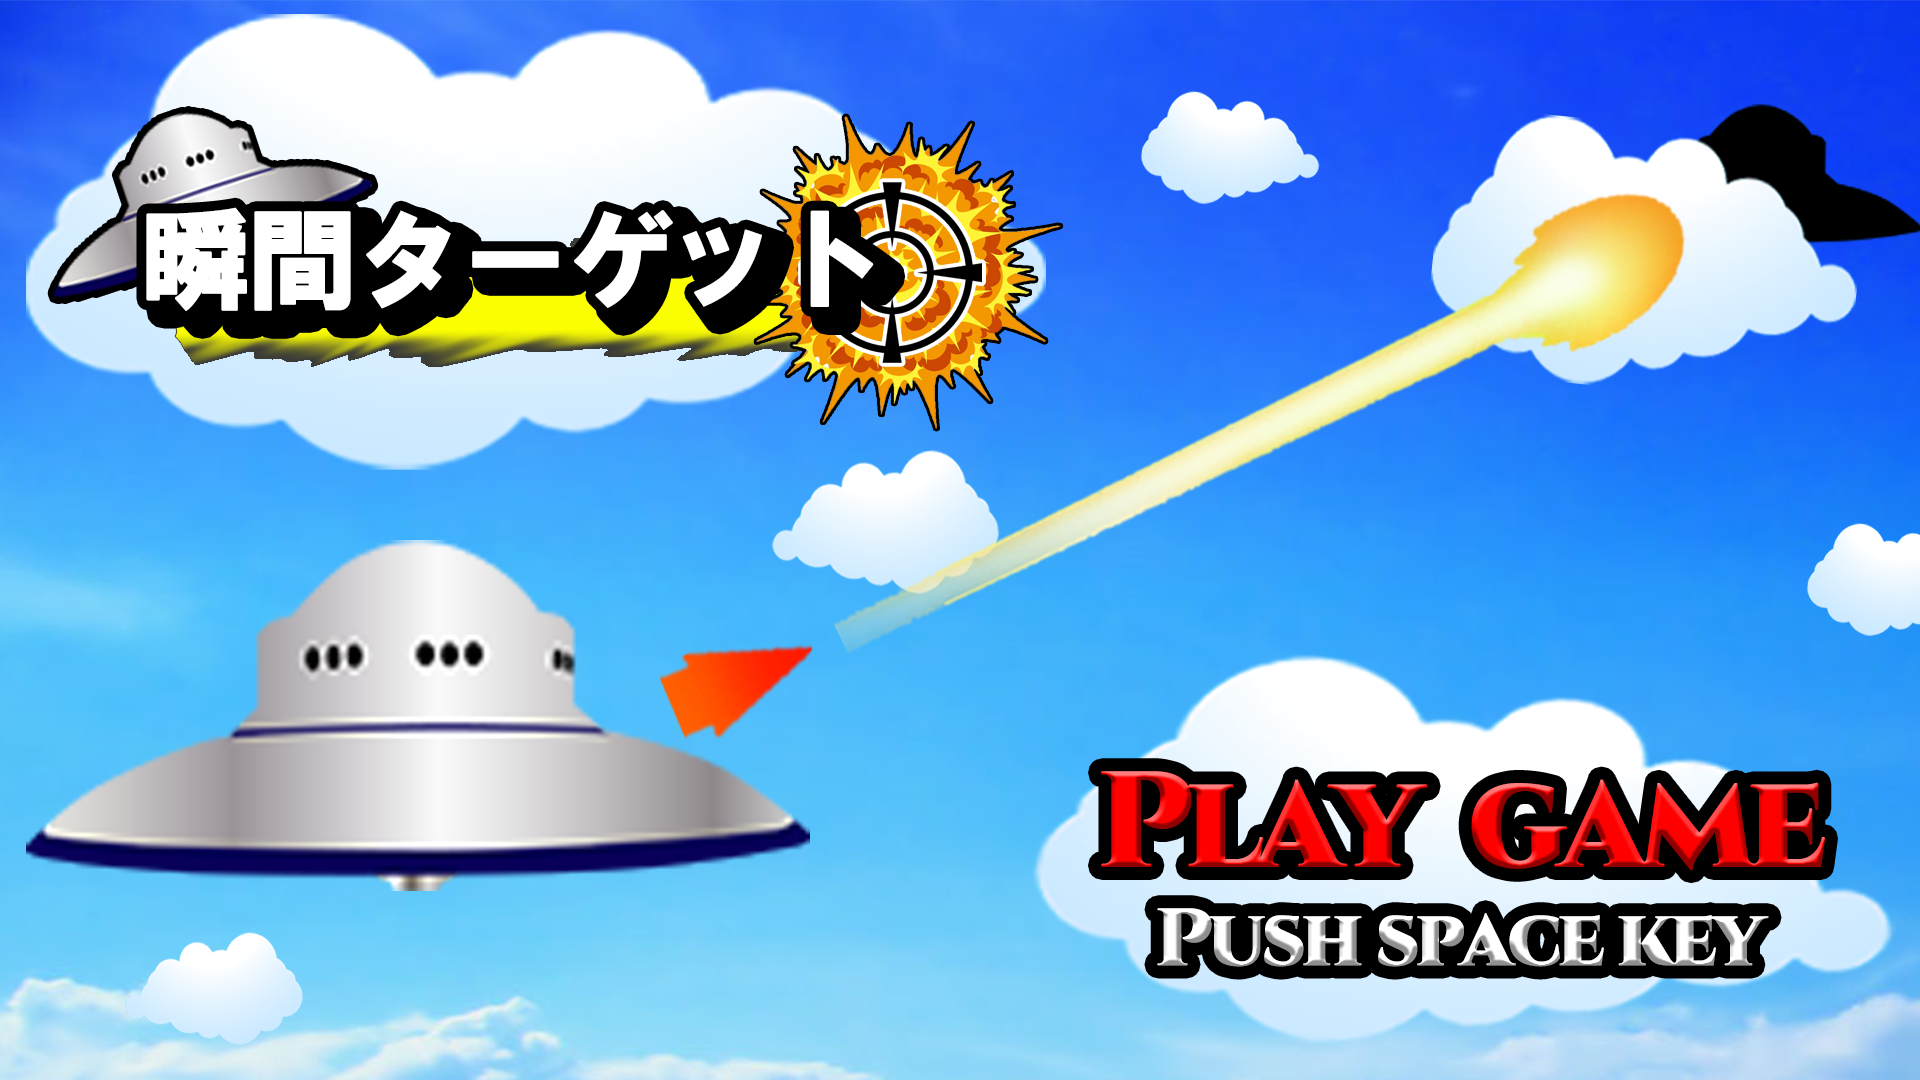
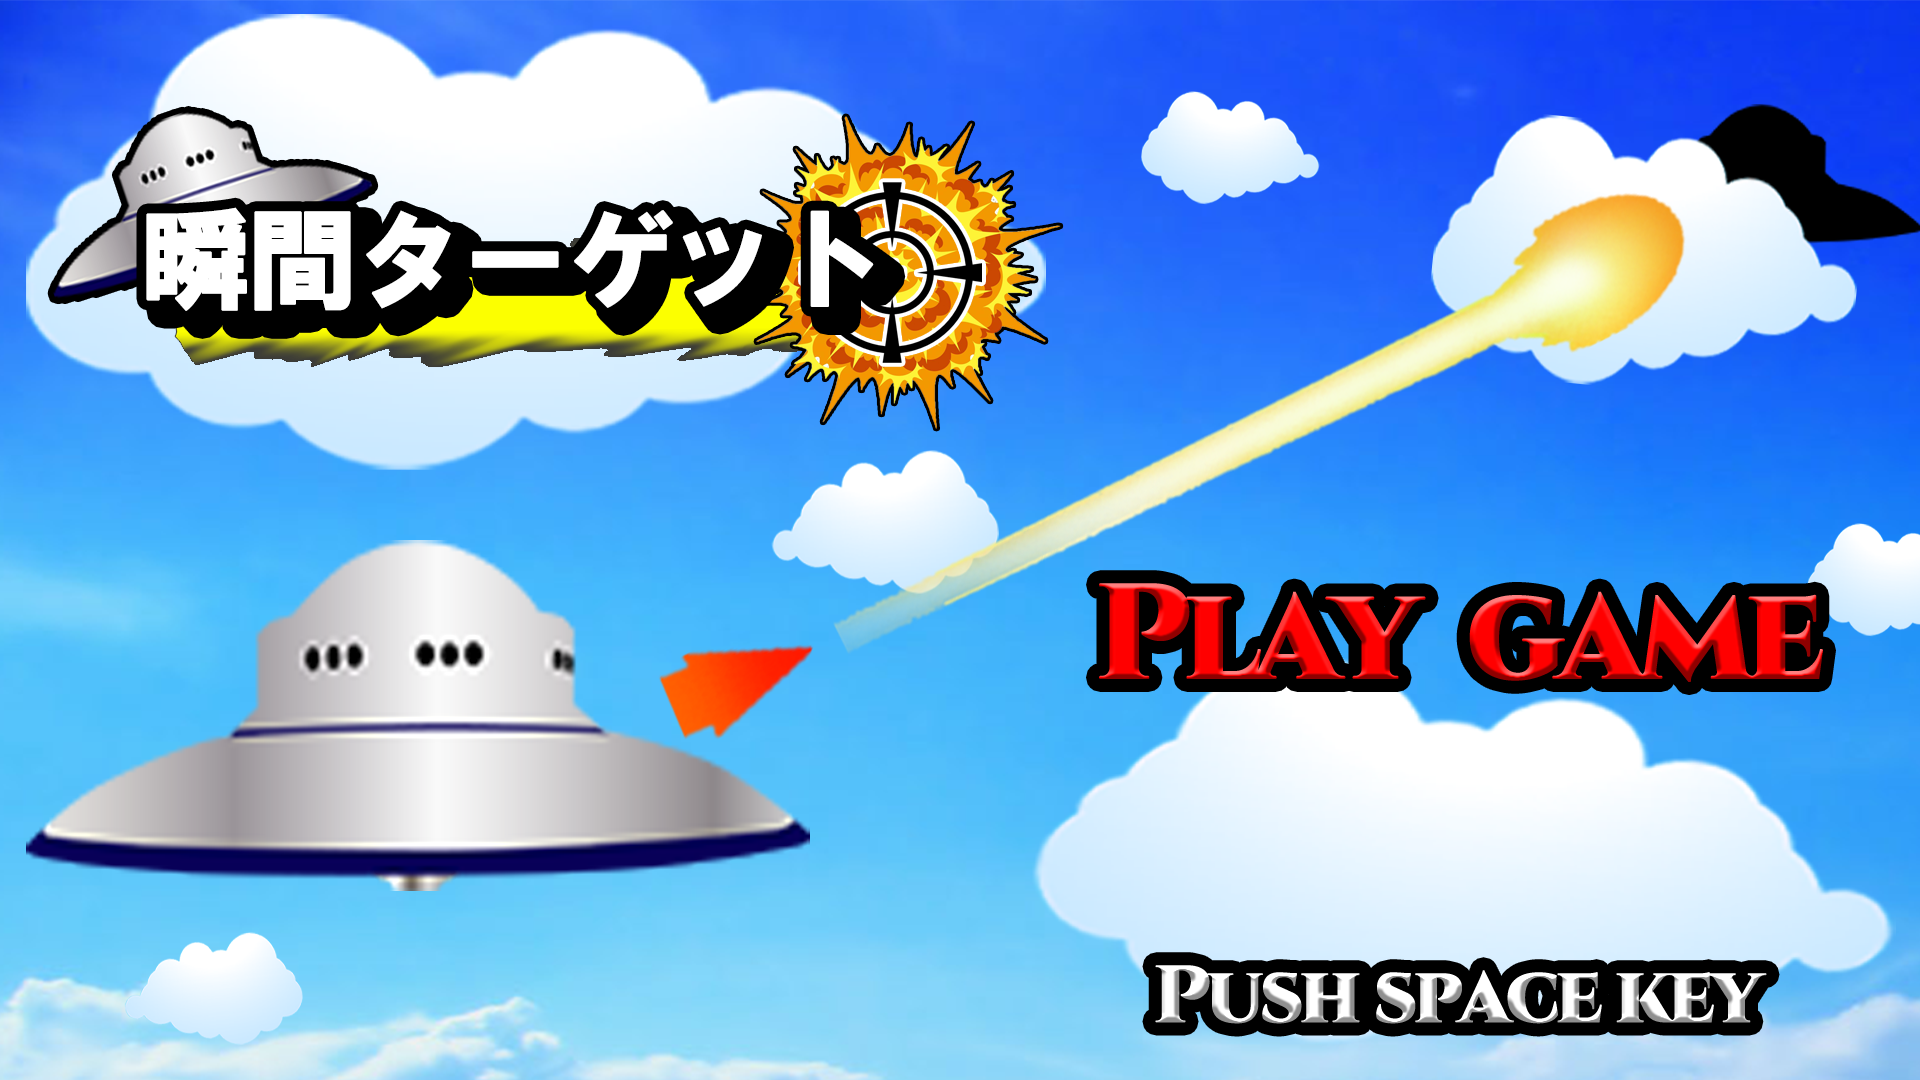
最後の作業

Changed region(s): [[0.5625, 0.7028, 0.9688, 0.9778], [0.5625, 0.5194, 0.9688, 0.6417]]

diff --git a/Team03/GameProject/Project/SceneTitle.cpp b/Team03/GameProject/Project/SceneTitle.cpp
@@ -6,6 +6,9 @@ void CSceneTitle::Initialize()
 {
 	CSceneBase::Initialize();
 	m_pTexture = &CResourceManager::Singleton().GetTextureList()->at("Title");
+	m_pTextureLevel1 = &CResourceManager::Singleton().GetTextureList()->at("Level1");
+	m_pTextureLevel2 = &CResourceManager::Singleton().GetTextureList()->at("Level2");
+	m_pTextureLevel3 = &CResourceManager::Singleton().GetTextureList()->at("Level3");
 	m_pBGM = &CResourceManager::Singleton().GetSoundList()->at("bgm_title");
 	m_pBGM->SetLoop(true);
 	m_pBGM->SetVolume(0.1f);
@@ -17,18 +20,46 @@ void CSceneTitle::Initialize()
 void CSceneTitle::Update()
 {
 	CSceneBase::Update();
-	if (g_pInput->IsKeyPush(MOFKEY_F1)) {
-		m_pBGM->Stop();
 
-		this->SetNextScene(NextScene::Game);
-		this->SceneEnd();
+	if (g_pInput->IsKeyPush(MOFKEY_S))
+	{
+		titleMenuIndex++;
+		if (titleMenuIndex >= 3) {
+			titleMenuIndex = 0;
+		}
 	}
+	else if (g_pInput->IsKeyPush(MOFKEY_W))
+	{
+		titleMenuIndex--;
+		if (titleMenuIndex < 0) {
+			titleMenuIndex += 3;
+		}
+	}
+
+	//if (g_pInput->IsKeyPush(MOFKEY_F1)) {
+	//	m_pBGM->Stop();
+
+	//	this->SetNextScene(NextScene::Game);
+	//	this->SceneEnd();
+	//}
 
 	if (g_pInput->IsKeyPush(MOFKEY_SPACE)) {
 		m_pBGM->Stop();
 		m_pSE->Play();
 
-		this->SetNextScene(NextScene::Game);
+		switch (titleMenuIndex)
+		{
+		case 0:
+			this->SetNextScene(NextScene::Game1);
+			break;
+		case 1:
+			this->SetNextScene(NextScene::Game2);
+			break;
+		case 2:
+			this->SetNextScene(NextScene::Game3);
+			break;
+		}
+
 		this->SceneEnd();
 	}
 }
@@ -36,6 +67,14 @@ void CSceneTitle::Update()
 void CSceneTitle::Render()
 {
 	m_pTexture->Render(0, 0);
+
+	float scale[] = { 1 , 1, 1 };
+	scale[titleMenuIndex] = 1.2f;
+
+	m_pTextureLevel1->RenderScale(1470,760, scale[0], TEXALIGN_CENTERCENTER);
+	m_pTextureLevel2->RenderScale(1470,840, scale[1], TEXALIGN_CENTERCENTER);
+	m_pTextureLevel3->RenderScale(1470,920, scale[2], TEXALIGN_CENTERCENTER);
+
 	CSceneBase::Render();
 }
 

diff --git a/Team03/GameProject/Project/SceneTitle.h b/Team03/GameProject/Project/SceneTitle.h
@@ -6,9 +6,13 @@ class CSceneTitle : public CSceneBase
 {
 private:
 	CTexture* m_pTexture;
+	CTexture* m_pTextureLevel1;
+	CTexture* m_pTextureLevel2;
+	CTexture* m_pTextureLevel3;
 	CSoundBuffer* m_pBGM;
 	CSoundBuffer* m_pSE;
 
+	int titleMenuIndex = 0;
 public:
 	void Initialize() override;
 	void Update()  override;

diff --git a/Team03/GameProject/Project/SceneBase.h b/Team03/GameProject/Project/SceneBase.h
@@ -4,7 +4,9 @@
 
 enum class NextScene {
 	Title,
-	Game,
+	Game1,
+	Game2,
+	Game3,
 	GameClear,
 	GameOver,
 };
